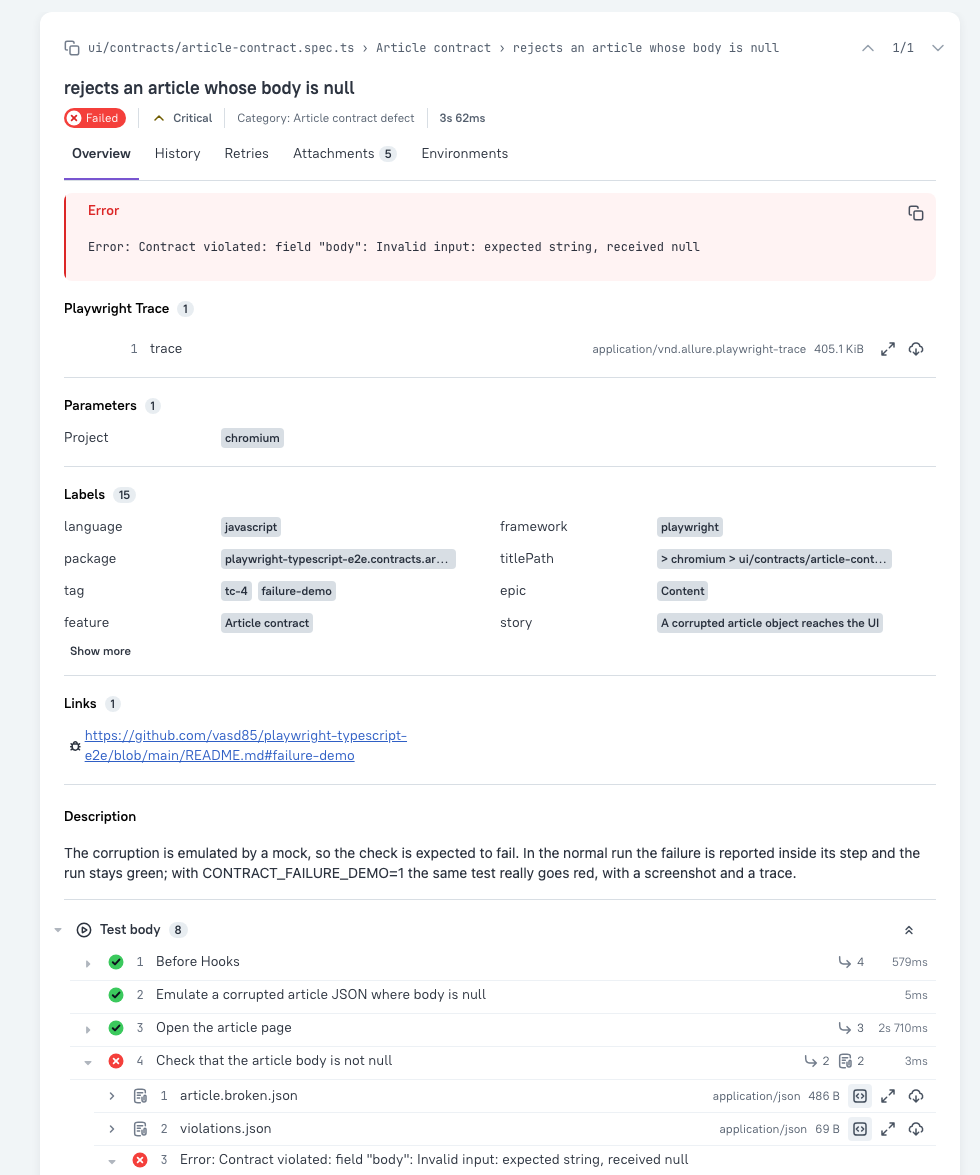
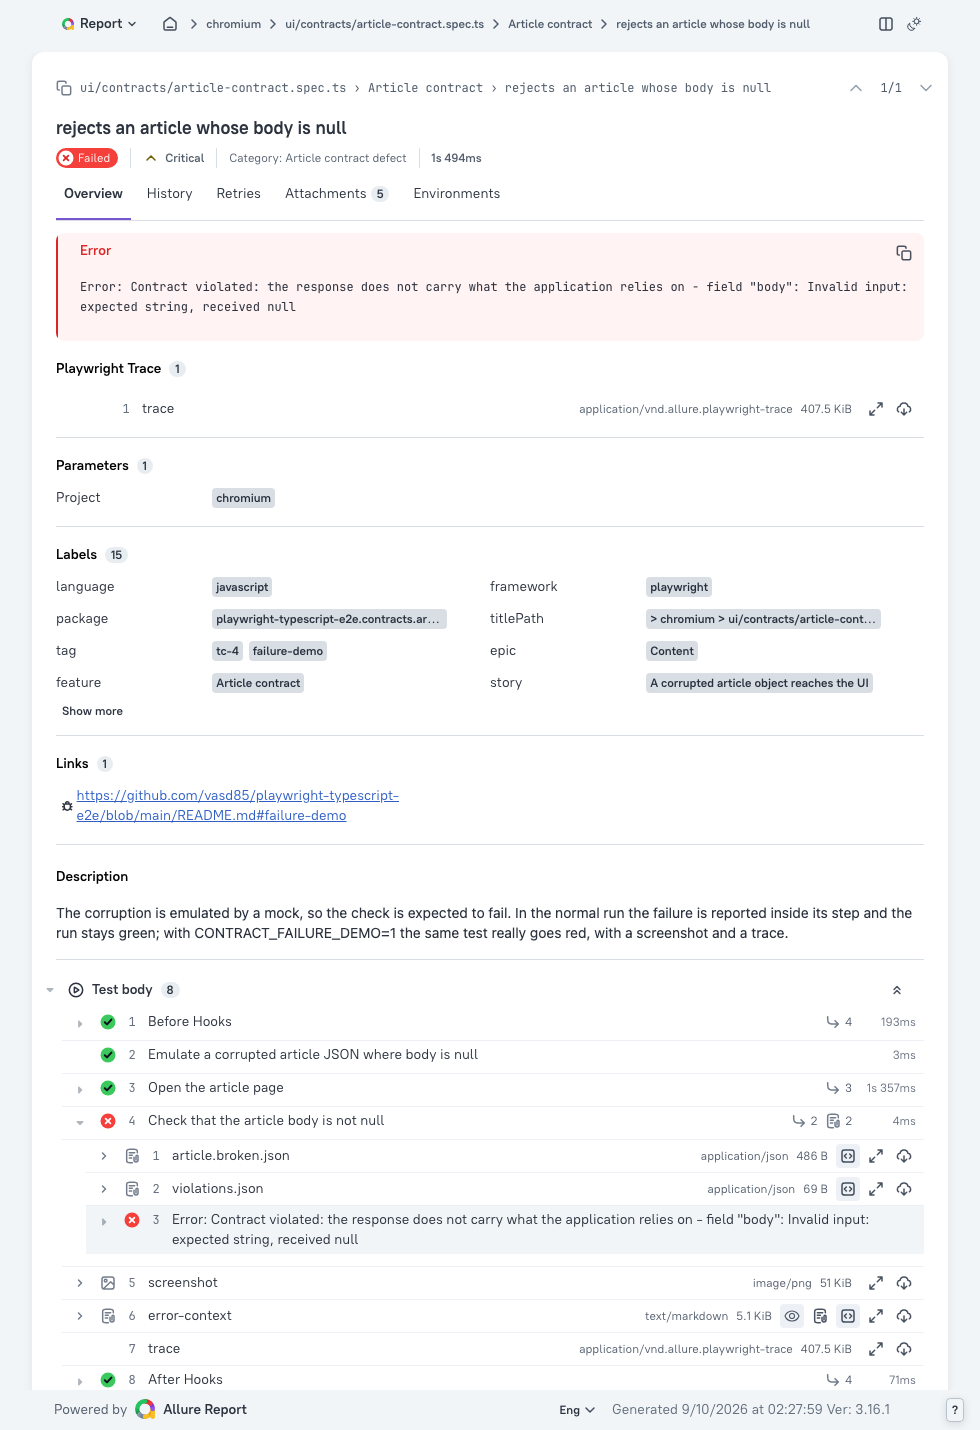
feat(api): say what a contract violation costs, not only what zod saw
The message the assignment asks to be a business text was entirely the wording
of the validator. The consequence is now stated first and the diagnosis of zod
kept after it: the phrase holds for every caller, including the API specs that
have no page. The two report screenshots are retaken from the run that produced
the new message.

diff --git a/tests/unit/expect-valid.spec.ts b/tests/unit/expect-valid.spec.ts
@@ -24,15 +24,16 @@ test.describe('Schema validation', () => {
     expect(attachmentNames()).toEqual([]);
   });
 
-  test('attaches the value and throws with the wording zod produced', async () => {
-    // The README quotes this message and the assignment asks for it by name, so the wording is
-    // pinned here rather than only in the test case that demonstrates it.
+  test('attaches the value and throws with the consequence and the wording zod produced', async () => {
+    // The assignment asks for this message by name and the README shows it as a screenshot, so
+    // the wording is pinned here rather than only in the test case that demonstrates it.
     const error = await expectValid(ArticleSchema, BROKEN, 'article.broken.json').catch(
       (thrown: unknown) => thrown,
     );
 
     expect(String(error)).toContain(
-      'Contract violated: field "body": Invalid input: expected string, received null',
+      'Contract violated: the response does not carry what the application relies on - ' +
+        'field "body": Invalid input: expected string, received null',
     );
     expect(attachmentNames()).toEqual(['article.broken.json', 'violations.json']);
   });

diff --git a/src/api/expect-valid.ts b/src/api/expect-valid.ts
@@ -3,7 +3,8 @@ import { attachJson, maskSecrets } from '../reporting/safe-attach';
 
 /**
  * Parses a value against its schema and returns it typed. On a mismatch it attaches the value
- * and the violations to the report, then throws with the wording zod itself produced.
+ * and the violations to the report, then throws with what the violation costs followed by the
+ * wording zod itself produced: the consequence is ours to state, the diagnosis is not.
  *
  * Outside a running test the value is still validated and the error still thrown; only the
  * attachments are skipped, because there is no report to put them in.
@@ -24,5 +25,9 @@ export async function expectValid<T>(
   // Awaited before the throw: an attachment that loses the race with the exception is lost.
   await attachJson(snapshot, value);
   await attachJson('violations.json', violations);
-  throw new Error(maskSecrets(`Contract violated: ${violations.join('; ')}`));
+  throw new Error(
+    maskSecrets(
+      `Contract violated: the response does not carry what the application relies on - ${violations.join('; ')}`,
+    ),
+  );
 }
